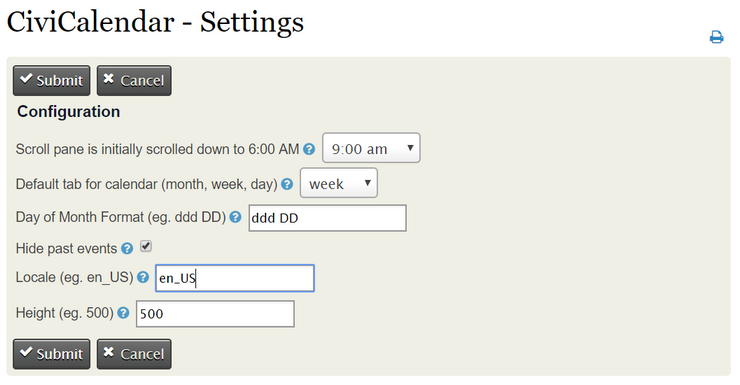
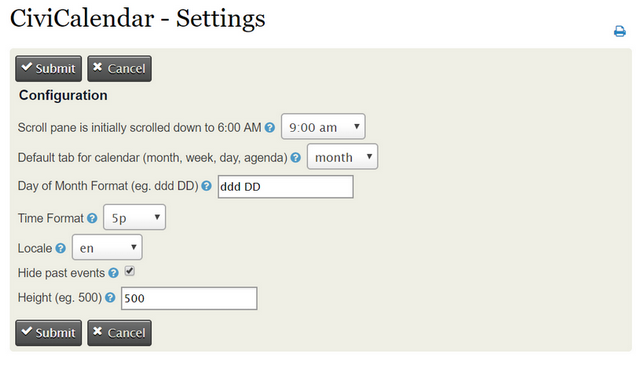
Fit fonts to one style

Changed region(s): [[0.0, 0.0, 1.0, 0.9945]]

diff --git a/css/calendar.css b/css/calendar.css
@@ -147,3 +147,61 @@ div.crm-container label {
 .fc-time {
     color: black !important;
 }
+.fc-agendaWeek-view .fc-time-grid-event .fc-content,
+.fc-agendaDay-view .fc-time-grid-event .fc-content{
+    line-height: 1.85em;
+}
+.fc-agendaWeek-view .fc-time-grid-event .fc-content .fc-title,
+.fc-agendaDay-view .fc-time-grid-event .fc-content .fc-title,
+.fc-agendaWeek-view .fc-time-grid-event .fc-content .fc-time,
+.fc-agendaDay-view .fc-time-grid-event .fc-content .fc-time{
+    font-size: 1em;
+}
+.fc-month-view .fc-day-grid-event .fc-content .fc-time{
+    font-weight: 400;
+}
+.fc-month-view .fc-day-grid-event[style*="background-color:#ff0000;border-color:#ff0000"],
+.fc-agendaWeek-view .fc-time-grid-event[style*="background-color: rgb(255, 0, 0); border-color: rgb(255, 0, 0)"],
+.fc-agendaDay-view .fc-time-grid-event[style*="background-color: rgb(255, 0, 0); border-color: rgb(255, 0, 0)"],
+.fc-list-view .fc-list-item-marker.fc-widget-content .fc-event-dot[style="background-color:#ff0000"]{
+    background-color: #fca2a4!important;
+    border-color: #fca2a4!important;
+}
+
+.tabsBlockContent .add__ev__wrapper{
+    display: inline-block;
+    margin-bottom: 10px;
+}
+.tabsBlockContent .calendar_item_types{
+    float: right;
+    display: inline-block;
+    padding-top: 5px;
+}
+.tabsBlockContent .fc-header-toolbar .fc-left,
+.tabsBlockContent .fc-header-toolbar .fc-right{
+    margin: 10px 0;
+}
+.tabsBlockContent .fc-header-toolbar{
+    margin-bottom: 10px;
+}
+.tabsBlockContent .fc-header-toolbar .fc-center{
+    display: block;
+}
+.tabsBlockContent .fc-header-toolbar .fc-center h2{
+    width: 100%;
+}
+td.fc-widget-header,
+th.fc-widget-header{
+    font-weight: 400;
+    color:#000000;
+}
+div.fc-widget-header > table{
+    margin:0;
+}
+div.fc-widget-header > table th{
+    padding: 5px 0;
+}
+.ui-tabs-panel .tabsBlockContent .fc-header-toolbar .fc-center{
+    display: inline-block;
+    margin-top: 10px;
+}

diff --git a/README.md b/README.md
@@ -4,14 +4,26 @@ The **CiviCalendar** extension (`com.agiliway.civicalendar`) is an CiviCRM compo
 
 The Calendar allows:
 * Viewing info on **different types** of activities (`Cases, Events, Activities`). Each type uses its own color
-* Setup different **time periods** - month, week, day
+* Setup different **time periods** - month, week, day, list
 * **Filtering** visualized data by types
+* Display or hide **past events**
 * **Adding** new activity directly from the Calendar
 * **Quickly previewing** the event info by one click
 * Display Calendar on CIVCRM dashboard as **dashlet**
+* Supports 73 **locales**
 
-![Screenshot](/img/screenshot_m.png)
+## Screenshots
+
 ![Screenshot](/img/screenshot_dashboard.png)
+---
+![Screenshot](/img/screenshot_month.png)
+---
+![Screenshot](/img/screenshot_week.png)
+---
+![Screenshot](/img/screenshot_day.png)
+---
+![Screenshot](/img/screenshot_list.png)
+---
 ![Screenshot](/img/screenshot_settings.png)
 
 ## Requirements
